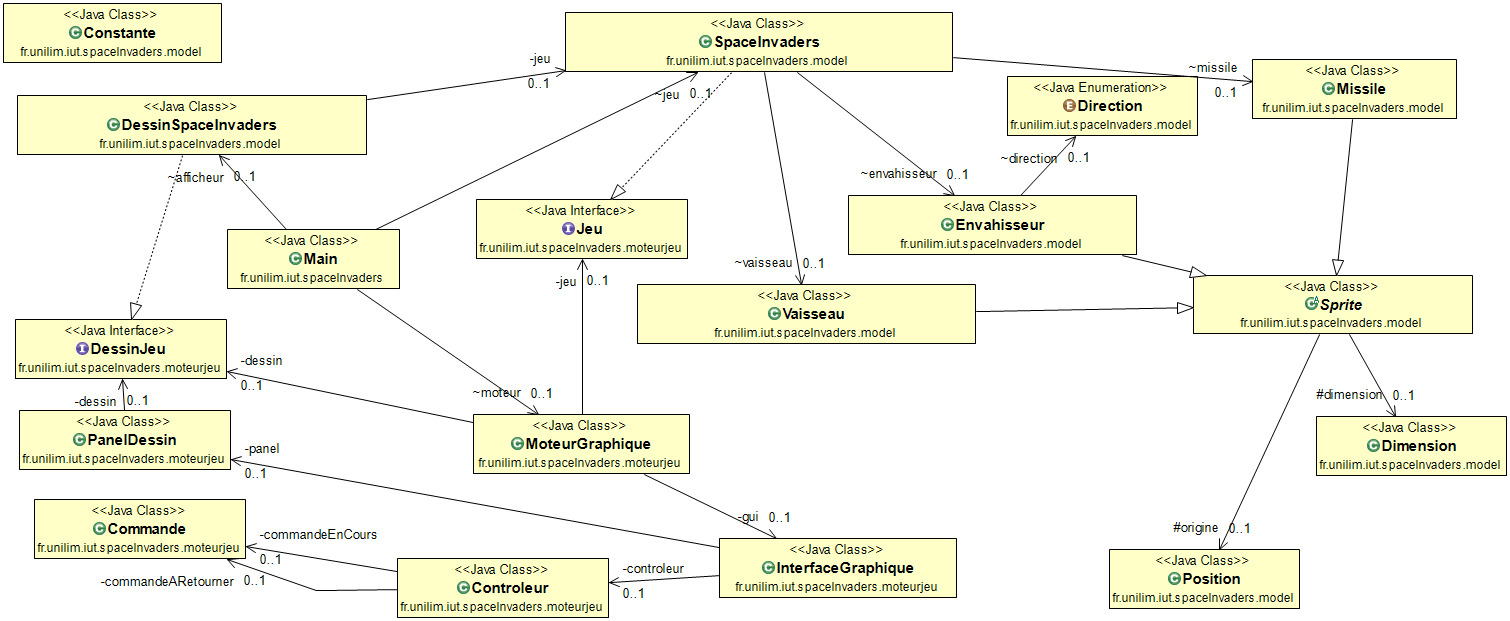
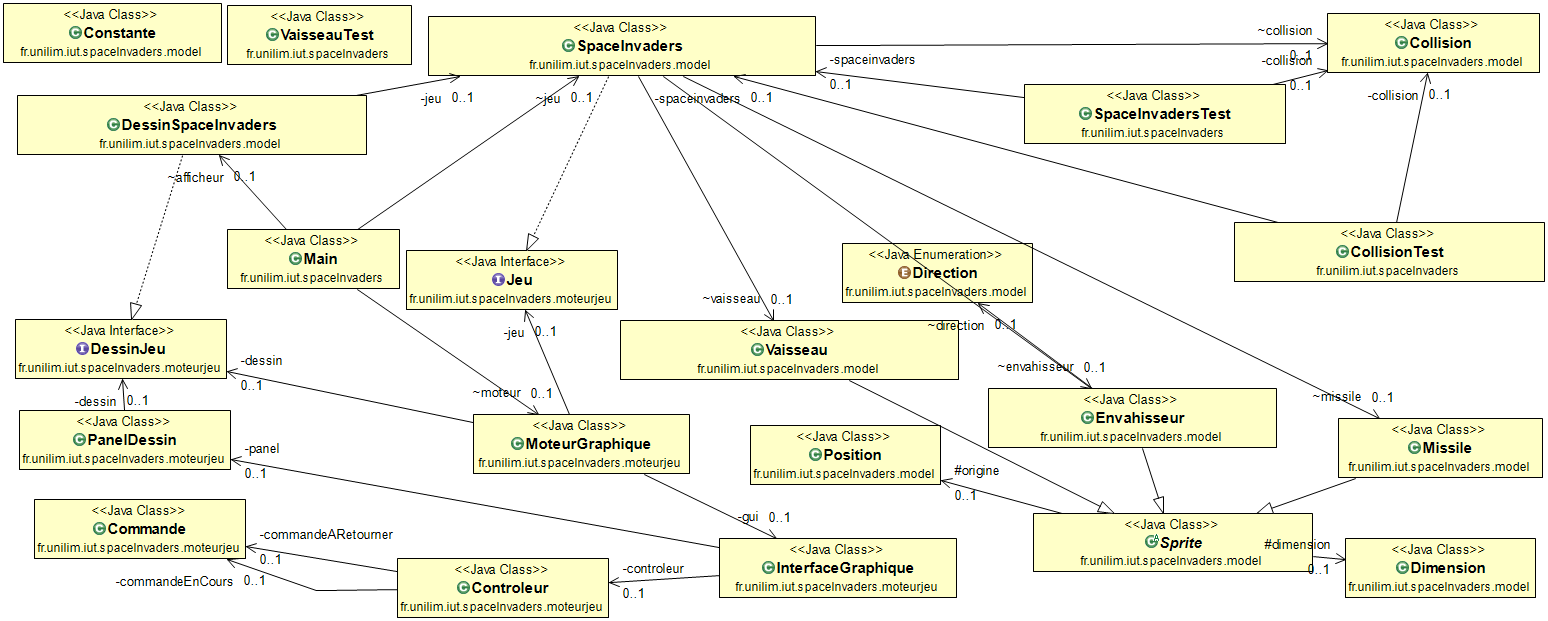
modif

diff --git a/src/test/java/fr/unilim/iut/spaceInvaders/CollisionTest.java b/src/test/java/fr/unilim/iut/spaceInvaders/CollisionTest.java
@@ -1,0 +1,85 @@
+package fr.unilim.iut.spaceInvaders;
+
+import static org.junit.Assert.assertEquals;
+
+import org.junit.Before;
+import org.junit.Test;
+
+import fr.unilim.iut.spaceInvaders.model.Collision;
+import fr.unilim.iut.spaceInvaders.model.Dimension;
+import fr.unilim.iut.spaceInvaders.model.Position;
+import fr.unilim.iut.spaceInvaders.model.SpaceInvaders;
+
+public class CollisionTest {
+
+	private SpaceInvaders spaceinvaders;
+	private Collision collision;
+
+	@Before
+	public void initialisation() {
+		spaceinvaders = new SpaceInvaders(15, 10);
+		collision = new Collision();
+	}
+
+	@Test
+	public void test_PasDeCollisionDetecte() {
+		spaceinvaders.positionnerUnNouveauVaisseau(new Dimension(2, 2), new Position(7, 9), 1);
+		spaceinvaders.positionnerUnNouveauEnvahisseur(new Dimension(2, 2), new Position(7, 1), 1);
+		assertEquals(false,
+				collision.detecterCollision(spaceinvaders.recupererVaisseau(), spaceinvaders.recupererEnvahisseur()));
+	}
+
+	@Test
+	public void test_collisionLaPlusNormal() {
+		spaceinvaders.positionnerUnNouveauVaisseau(new Dimension(5, 4), new Position(6, 3), 1);
+		spaceinvaders.positionnerUnNouveauEnvahisseur(new Dimension(5, 2), new Position(7, 2), 1);
+
+		assertEquals(true, collision.detecterCollision(spaceinvaders.recupererEnvahisseur(),
+				spaceinvaders.recupererEnvahisseur()));
+
+	}
+
+	@Test
+	public void test_DetectionCollision_ParLaDroite() {
+		spaceinvaders.positionnerUnNouveauVaisseau(new Dimension(3, 2), new Position(6, 2), 1);
+		spaceinvaders.positionnerUnNouveauEnvahisseur(new Dimension(3, 2), new Position(7, 1), 1);
+		assertEquals(true,
+				collision.detecterCollision(spaceinvaders.recupererVaisseau(), spaceinvaders.recupererEnvahisseur()));
+	}
+
+	@Test
+	public void test_DetectionCollision_ParLaGauche() {
+		spaceinvaders.positionnerUnNouveauVaisseau(new Dimension(3, 2), new Position(8, 1), 1);
+		spaceinvaders.positionnerUnNouveauEnvahisseur(new Dimension(3, 2), new Position(7, 1), 1);
+		assertEquals(true,
+				collision.detecterCollision(spaceinvaders.recupererVaisseau(), spaceinvaders.recupererEnvahisseur()));
+	}
+
+	@Test
+	public void test_DetectionCollision_ParLeBas() {
+		spaceinvaders.positionnerUnNouveauVaisseau(new Dimension(4, 3), new Position(8, 2), 1);
+		spaceinvaders.positionnerUnNouveauEnvahisseur(new Dimension(4, 3), new Position(7, 3), 1);
+		assertEquals(true,
+				collision.detecterCollision(spaceinvaders.recupererVaisseau(), spaceinvaders.recupererEnvahisseur()));
+	}
+
+	@Test
+	public void test_DetectionCollision_ParLeHaut() {
+		spaceinvaders.positionnerUnNouveauVaisseau(new Dimension(4, 3), new Position(8, 4), 1);
+		spaceinvaders.positionnerUnNouveauEnvahisseur(new Dimension(4, 3), new Position(7, 3), 1);
+		assertEquals(true,
+				collision.detecterCollision(spaceinvaders.recupererVaisseau(), spaceinvaders.recupererEnvahisseur()));
+	}
+
+	@Test
+	public void test_DetectionCollision_EnvahisseurMissile() {
+		spaceinvaders.positionnerUnNouveauVaisseau(new Dimension(10, 3), new Position(0, 9), 1);
+		spaceinvaders.positionnerUnNouveauEnvahisseur(new Dimension(10, 2), new Position(0, 5), 1);
+		spaceinvaders.tirerUnMissile(new Dimension(3, 2), 2);
+		spaceinvaders.deplacerMissile();
+
+		assertEquals(true,
+				collision.detecterCollision(spaceinvaders.recupererMissile(), spaceinvaders.recupererEnvahisseur()));
+	}
+
+}

diff --git a/src/test/java/fr/unilim/iut/spaceInvaders/SpaceInvadersTest.java b/src/test/java/fr/unilim/iut/spaceInvaders/SpaceInvadersTest.java
@@ -5,6 +5,7 @@ import static org.junit.Assert.fail;
 import org.junit.Before;
 import org.junit.Test;
 
+import fr.unilim.iut.spaceInvaders.model.Collision;
 import fr.unilim.iut.spaceInvaders.model.Dimension;
 import fr.unilim.iut.spaceInvaders.model.Position;
 import fr.unilim.iut.spaceInvaders.model.SpaceInvaders;
@@ -13,10 +14,12 @@ import fr.unilim.iut.spaceInvaders.utils.*;
 public class SpaceInvadersTest {
 
 	private SpaceInvaders spaceinvaders;
+	private Collision collision;
 
 	@Before
 	public void initialisation() {
 		spaceinvaders = new SpaceInvaders(15, 10);
+		collision = new Collision();
 	}
 
 	@Test
@@ -407,4 +410,23 @@ public class SpaceInvadersTest {
 			"...............\n" + 
 			"...............\n" , spaceinvaders.recupererEspaceJeuDansChaineASCII());
 	    }
+	    
+	    @Test 
+		  public void test_unNouvelEnvahisseurAvecDimensionEtUnNouveauVaisseauEtUnMissileSontCorrectementPositionneDansEspaceJeu() {
+			  spaceinvaders.positionnerUnNouveauEnvahisseur(new Dimension(3,2),new Position(7,1), 1);
+				spaceinvaders.positionnerUnNouveauVaisseau(new Dimension(7,2),new Position(5,9), 1);
+				spaceinvaders.tirerUnMissile(new Dimension(3,2),2);
+
+				assertEquals("" + 
+					       ".......EEE.....\n" + 
+					       ".......EEE.....\n" +
+					       "...............\n" + 
+					       "...............\n" + 
+					       "...............\n" + 
+					       "...............\n" + 
+					       ".......MMM.....\n" + 
+					       ".......MMM.....\n" + 
+					       ".....VVVVVVV...\n" + 
+					       ".....VVVVVVV...\n" , spaceinvaders.recupererEspaceJeuDansChaineASCII());
+		  }
 }

diff --git a/src/main/java/fr/unilim/iut/spaceInvaders/model/SpaceInvaders.java b/src/main/java/fr/unilim/iut/spaceInvaders/model/SpaceInvaders.java
@@ -8,9 +8,11 @@ public class SpaceInvaders implements Jeu {
 
 	int longueur;
 	int hauteur;
+	boolean partieFinie = false;
 	Vaisseau vaisseau;
 	Missile missile;
 	Envahisseur envahisseur;
+	Collision collision = new Collision();
 
 	public SpaceInvaders(int longueur, int hauteur) {
 		this.longueur = longueur;
@@ -35,7 +37,7 @@ public class SpaceInvaders implements Jeu {
 		else if (this.aUnMissileQuiOccupeLaPosition(x, y))
 			marque = Constante.MARQUE_MISSILE;
 		else if (this.aUnEnvahisseurQuiOccupeLaPosition(x, y))
-		    marque = Constante.MARQUE_ENVAHISSEUR;
+			marque = Constante.MARQUE_ENVAHISSEUR;
 		else
 			marque = Constante.MARQUE_VIDE;
 		return marque;
@@ -182,15 +184,23 @@ public class SpaceInvaders implements Jeu {
 		if (this.aUnEnvahisseur()) {
 			this.deplacerEnvahisseur();
 		}
+		if (this.aUnEnvahisseur() && this.aUnMissile()) {
+			if (this.collision.detecterCollision(this.recupererMissile(), this.recupererEnvahisseur())) {
+				this.envahisseur=null;
+				this.missile=null;
+				this.vaisseau=null;
+				partieFinie=true;
+			}
+		}
 	}
 
 	@Override
-	public boolean etreFini() {
-		// TODO Auto-generated method stub
-		return false;
+	public boolean partieFinie() {
+		return partieFinie;
 	}
 
 	public void initialiserJeu() {
+		partieFinie = false;
 		Position positionVaisseau = new Position(this.longueur / 2, this.hauteur - 1);
 		Dimension dimensionVaisseau = new Dimension(Constante.VAISSEAU_LONGUEUR, Constante.VAISSEAU_HAUTEUR);
 		Position positionEnvahisseur = new Position(this.longueur / 2,

diff --git a/src/main/java/fr/unilim/iut/spaceInvaders/model/DessinSpaceInvaders.java b/src/main/java/fr/unilim/iut/spaceInvaders/model/DessinSpaceInvaders.java
@@ -15,17 +15,20 @@ public class DessinSpaceInvaders implements DessinJeu {
 
 	@Override
 	public void dessiner(BufferedImage im) {
-		if (this.jeu.aUnVaisseau()) {
-			Vaisseau vaisseau = this.jeu.recupererVaisseau();
-			this.dessinerUnVaisseau(vaisseau, im);
-		}
-		if (this.jeu.aUnMissile()) {
-			Missile missile = this.jeu.recupererMissile();
-			this.dessinerUnMissile(missile, im);
-		}
-		if (this.jeu.aUnEnvahisseur()) {
-			Envahisseur envahisseur = this.jeu.recupererEnvahisseur();
-			this.dessinerUnEnvahisseur(envahisseur, im);
+		if (!this.jeu.partieFinie()) {
+			if (this.jeu.aUnVaisseau()) {
+				Vaisseau vaisseau = this.jeu.recupererVaisseau();
+				this.dessinerUnVaisseau(vaisseau, im);
+
+				if (this.jeu.aUnMissile()) {
+					Missile missile = this.jeu.recupererMissile();
+					this.dessinerUnMissile(missile, im);
+				}
+				if (this.jeu.aUnEnvahisseur()) {
+					Envahisseur envahisseur = this.jeu.recupererEnvahisseur();
+					this.dessinerUnEnvahisseur(envahisseur, im);
+				}
+			}
 		}
 	}
 
@@ -52,7 +55,6 @@ public class DessinSpaceInvaders implements DessinJeu {
 		crayon.setColor(Color.black);
 		crayon.fillRect(envahisseur.abscisseLaPlusAGauche(), envahisseur.ordonneeLaPlusBasse(), envahisseur.longueur(),
 				envahisseur.hauteur());
-
 	}
 
 }

diff --git a/src/main/java/fr/unilim/iut/spaceInvaders/model/Collision.java b/src/main/java/fr/unilim/iut/spaceInvaders/model/Collision.java
@@ -1,0 +1,22 @@
+package fr.unilim.iut.spaceInvaders.model;
+
+public class Collision {
+	
+	public boolean detecterCollision(Sprite collisionneur, Sprite collisionne) {
+		return this.collisionAbscisseEtOrdonne(collisionneur, collisionne);
+	}
+
+	private boolean collisionAbscisseEtOrdonne(Sprite collisionneur, Sprite collisionne) {
+		return collisionOrdonnes(collisionneur, collisionne) && collisionAbscisse(collisionneur, collisionne);
+	}
+
+	private boolean collisionAbscisse(Sprite collisionneur, Sprite collisionne) {
+		return collisionne.abscisseLaPlusADroite() >= collisionneur.abscisseLaPlusAGauche()
+				&& collisionne.abscisseLaPlusAGauche() <= collisionneur.abscisseLaPlusADroite();
+	}
+
+	private boolean collisionOrdonnes(Sprite collisionneur, Sprite collisionne) {
+		return collisionne.ordonneeLaPlusBasse() <= collisionneur.ordonneeLaPlusHaute()
+				&& collisionneur.ordonneeLaPlusBasse() <= collisionne.ordonneeLaPlusHaute();
+	}
+}

diff --git a/src/main/java/fr/unilim/iut/spaceInvaders/model/Constante.java b/src/main/java/fr/unilim/iut/spaceInvaders/model/Constante.java
@@ -16,7 +16,7 @@ public class Constante {
 	
 	public static final int MISSILE_LONGUEUR = 5;
 	public static final int MISSILE_HAUTEUR = 10;
-	public static final int MISSILE_VITESSE = 20;
+	public static final int MISSILE_VITESSE = 50;
 	
 	public static final int ENVAHISSEUR_LONGUEUR = 30;
     public static final int ENVAHISSEUR_HAUTEUR = 20;

diff --git a/src/main/java/fr/unilim/iut/spaceInvaders/moteurjeu/MoteurGraphique.java b/src/main/java/fr/unilim/iut/spaceInvaders/moteurjeu/MoteurGraphique.java
@@ -44,7 +44,7 @@ public class MoteurGraphique {
 		Controleur controle = this.gui.getControleur();
 
 		// boucle de jeu
-		while (!this.jeu.etreFini()) {
+		while (!this.jeu.partieFinie()) {
 			// demande controle utilisateur
 			Commande c = controle.getCommande();
 			// fait evoluer le jeu

diff --git a/src/main/java/fr/unilim/iut/spaceInvaders/moteurjeu/Jeu.java b/src/main/java/fr/unilim/iut/spaceInvaders/moteurjeu/Jeu.java
@@ -18,5 +18,5 @@ public interface Jeu {
 	/**
 	 * @return true si et seulement si le jeu est fini
 	 */
-	public boolean etreFini();
+	public boolean partieFinie();
 }
